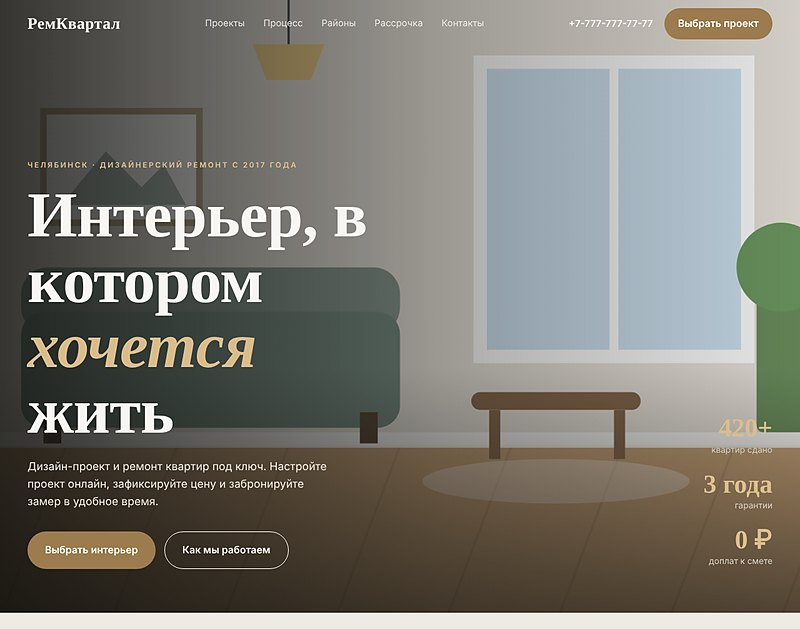
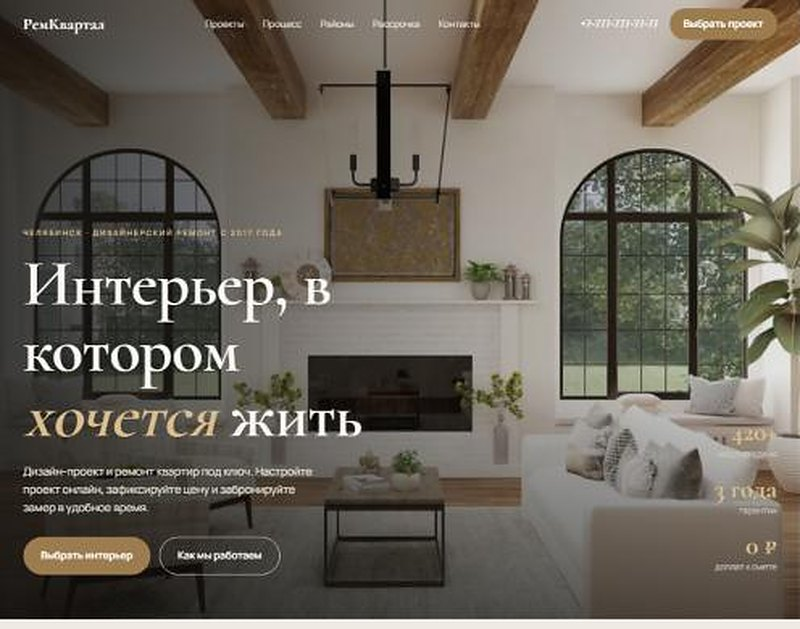
Ремонт квартир: ссылки на отдельный сайт Remont-kvartir, превью с живыми фото
Claude-Session: https://claude.ai/code/session_01UKXT5NmQs3yupi28Ksoipx

diff --git a/index.html b/index.html
@@ -192,12 +192,12 @@ var NICHES=[
   {niche:'Салон флористики',tariff:'Витрина',price:'25 000 ₽',url:'https://artemdobrovolskii1-bit.github.io/Cvety-kopeysk/2-vitrina/',img:'img/cvety-vitrina.jpg'},
   {niche:'Доставка букетов',tariff:'Магазин',price:'55 000 ₽',url:'https://artemdobrovolskii1-bit.github.io/Cvety-kopeysk/3-magazin/',img:'img/cvety-magazin.jpg'},
   {niche:'Интернет-магазин',tariff:'Премиум',price:'от 100 000 ₽',url:'https://artemdobrovolskii1-bit.github.io/Cvety-kopeysk/4-premium/',img:'img/cvety-premium.jpg'}]},
- {id:'n-remont',title:'Ремонт и отделка квартир',company:'РемКвартал',tariffs:'remont-kvartir/',works:[
-  {niche:'Сайт-визитка',tariff:'Старт',price:'15 000 ₽',url:'remont-kvartir/1-start/',img:'img/remont-start.jpg'},
-  {niche:'Ремонт под ключ',tariff:'Витрина',price:'25 000 ₽',url:'remont-kvartir/2-vitrina/',img:'img/remont-vitrina.jpg'},
-  {niche:'Каталог проектов',tariff:'Магазин',price:'55 000 ₽',url:'remont-kvartir/3-magazin/',img:'img/remont-magazin.jpg'},
-  {niche:'Бронь замера онлайн',tariff:'Премиум',price:'от 100 000 ₽',url:'remont-kvartir/4-premium/',img:'img/remont-premium.jpg'},
-  {niche:'3D-сайт ремонта',tariff:'Премиум+',price:'от 250 000 ₽',url:'remont-kvartir/5-premium-plus/',img:'img/remont-premium-plus.jpg'}]}
+ {id:'n-remont',title:'Ремонт и отделка квартир',company:'РемКвартал',tariffs:'https://artemdobrovolskii1-bit.github.io/Remont-kvartir/',works:[
+  {niche:'Сайт-визитка',tariff:'Старт',price:'15 000 ₽',url:'https://artemdobrovolskii1-bit.github.io/Remont-kvartir/1-start/',img:'img/remont-start.jpg'},
+  {niche:'Ремонт под ключ',tariff:'Витрина',price:'25 000 ₽',url:'https://artemdobrovolskii1-bit.github.io/Remont-kvartir/2-vitrina/',img:'img/remont-vitrina.jpg'},
+  {niche:'Каталог проектов',tariff:'Магазин',price:'55 000 ₽',url:'https://artemdobrovolskii1-bit.github.io/Remont-kvartir/3-magazin/',img:'img/remont-magazin.jpg'},
+  {niche:'Бронь замера онлайн',tariff:'Премиум',price:'от 100 000 ₽',url:'https://artemdobrovolskii1-bit.github.io/Remont-kvartir/4-premium/',img:'img/remont-premium.jpg'},
+  {niche:'3D-сайт ремонта',tariff:'Премиум+',price:'от 250 000 ₽',url:'https://artemdobrovolskii1-bit.github.io/Remont-kvartir/5-premium-plus/',img:'img/remont-premium-plus.jpg'}]}
 ];
 document.getElementById('nn').innerHTML=NICHES.map(function(n){return '<a href="#'+n.id+'">'+n.title+'</a>'}).join('');
 document.getElementById('pf').innerHTML=NICHES.map(function(n,k){
